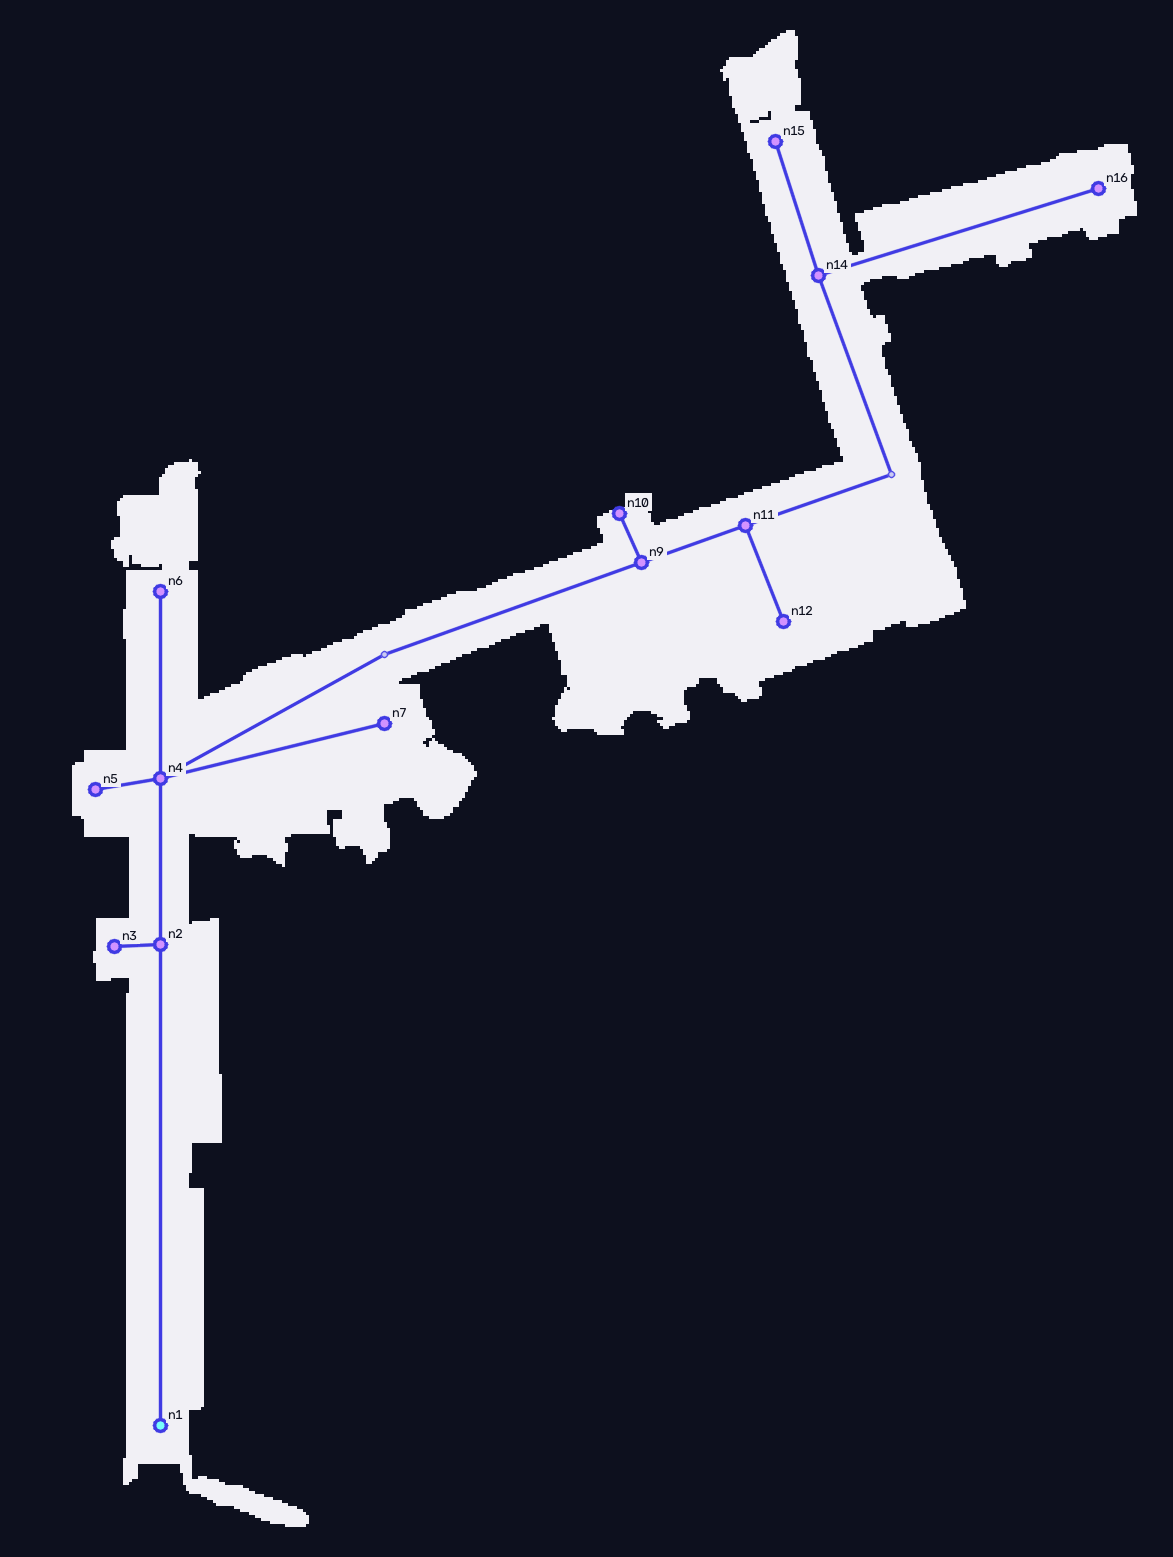
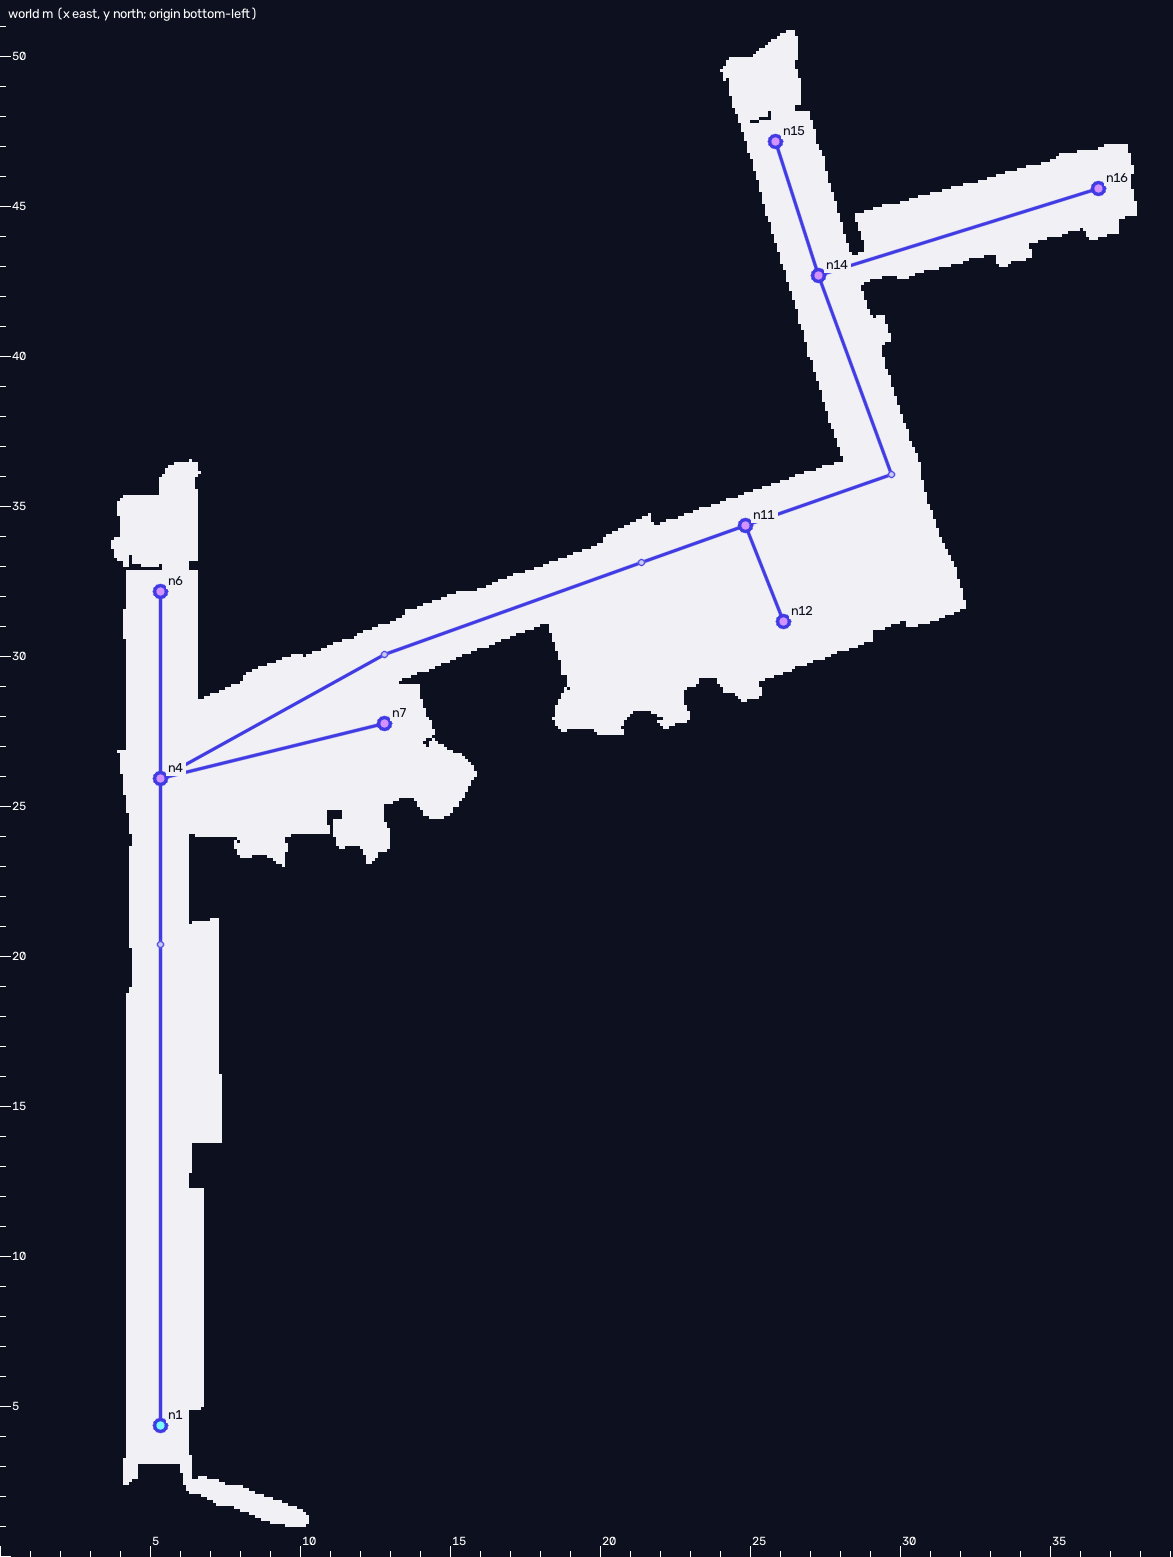
marshgate-route: close doors n3/n5/n10, debris on n6/n7/n15 branches
- tools/scan_close_doors.py: paint a branch's doorway shut in grid.png, seal
  what's behind it, drop the branch from the graph (ids kept).
- route editor keeps node/edge ids on save (--renumber for the old behaviour).
- n12 is open hall, not a door: no longer blocked.

diff --git a/tools/scan_close_doors.py b/tools/scan_close_doors.py
@@ -1,0 +1,159 @@
+#!/usr/bin/env python3
+# /// script
+# requires-python = ">=3.12"
+# dependencies = ["numpy", "opencv-python-headless", "scikit-image"]
+# ///
+"""Close doors: paint doorways shut in grid.png and drop those branches from the graph.
+
+    python tools/scan_close_doors.py maps/<name> n3 n5 n10 [--dry-run]
+
+Each argument is the node BEHIND the door (the room / alcove node at the end of a branch).
+For each one:
+  * the doorway = the narrowest wall-to-wall cross-section along that node's edge
+    (from its junction to the node, ignoring the first/last 5%);
+  * a wall line is painted across it in grid.png (--thickness px), extended a little past
+    the jambs so no diagonal gap is left;
+  * free space no longer reachable from the entrance becomes wall (same rule as scan_to_grid);
+  * the branch (the node, and anything only reachable through it) is removed from the graph,
+    together with its compromised entries and checkpoints. Other ids are kept unchanged.
+Refuses a door wider than --max-door (default 3.5 m): that's an open area, not a doorway.
+Writes grid.png, scenario.json, preview.png and route_preview.jpg (if topdown.jpg exists),
+and keeps a backup grid.before_doors.png the first time.
+"""
+from __future__ import annotations
+
+import argparse
+import json
+import shutil
+import sys
+from pathlib import Path
+
+import cv2
+import numpy as np
+
+
+def main() -> None:
+    ap = argparse.ArgumentParser(description=__doc__, formatter_class=argparse.RawDescriptionHelpFormatter)
+    ap.add_argument("map_dir", type=Path)
+    ap.add_argument("nodes", nargs="+", help="node ids behind the doors")
+    ap.add_argument("--thickness", type=int, default=2, help="wall thickness (px of grid.png)")
+    ap.add_argument("--max-door", type=float, default=3.5, help="refuse doorways wider than this (m)")
+    ap.add_argument("--dry-run", action="store_true")
+    a = ap.parse_args()
+
+    md = a.map_dir
+    sc = json.loads((md / "scenario.json").read_text())
+    grid = cv2.imread(str(md / "grid.png"), cv2.IMREAD_GRAYSCALE)
+    pitch = float(sc.get("grid", {}).get("resolution", 0.1))
+    h, w = grid.shape
+    nodes = {n["id"]: n for n in sc["graph"]["nodes"]}
+    edges = {e["id"]: e for e in sc["graph"]["edges"]}
+    ent = next(n["id"] for n in sc["graph"]["nodes"] if n["kind"] == "entrance")
+    pos = {i: np.array((n["x"], n["y"]), float) for i, n in nodes.items()}
+
+    def rc(p):
+        return h - 1 - int(p[1] / pitch), int(p[0] / pitch)
+
+    def free(p, g):
+        r, c = rc(p)
+        return 0 <= r < h and 0 <= c < w and g[r, c] > 127
+
+    def ray(p, d, g):
+        t = 0.0
+        while free(p + d * t, g) and t < 20:
+            t += pitch / 4
+        return t
+
+    def reach_nodes(edge_set, start):
+        adj = {i: [] for i in nodes}
+        for e in edge_set.values():
+            adj[e["a"]].append(e["b"]); adj[e["b"]].append(e["a"])
+        seen, st = set(), [start]
+        while st:
+            n = st.pop()
+            if n not in seen:
+                seen.add(n); st += adj[n]
+        return seen
+
+    g = grid.copy()
+    drop_nodes, drop_edges = set(), set()
+    for leaf in a.nodes:
+        if leaf not in nodes:
+            raise SystemExit(f"unknown node {leaf}")
+        if leaf == ent:
+            raise SystemExit(f"{leaf} is the entrance")
+        inc = [e for e in edges.values() if leaf in (e["a"], e["b"])]
+        # the door edge = the incident edge on the way to the entrance
+        others = {k: v for k, v in edges.items()}
+        door = None
+        for e in inc:
+            rest = {k: v for k, v in others.items() if k != e["id"]}
+            if leaf not in reach_nodes(rest, ent):      # removing e cuts the leaf side off
+                door = e
+                break
+        if door is None:
+            raise SystemExit(f"{leaf} is on a loop: there is no single door edge to close")
+        root = door["a"] if door["b"] == leaf else door["b"]
+        pa, pb = pos[root], pos[leaf]
+        u = (pb - pa) / np.linalg.norm(pb - pa)
+        nrm = np.array([-u[1], u[0]])
+        best = min((ray(pa + (pb - pa) * t, nrm, grid) + ray(pa + (pb - pa) * t, -nrm, grid), t)
+                   for t in np.linspace(0.05, 0.95, 37))
+        width, t = best
+        if width > a.max_door:
+            print(f"  SKIP {leaf}: narrowest opening on {door['id']} is {width:.1f} m wide, that's an open area, "
+                  f"not a door (use --max-door to force)")
+            continue
+        m = pa + (pb - pa) * t
+        q1 = m + nrm * (ray(m, nrm, grid) + 2 * pitch)
+        q2 = m - nrm * (ray(m, -nrm, grid) + 2 * pitch)
+        (r1, c1), (r2, c2) = rc(q1), rc(q2)
+        cv2.line(g, (c1, r1), (c2, r2), 0, a.thickness)
+        cut = reach_nodes({k: v for k, v in edges.items() if k != door["id"]}, ent)
+        gone = set(nodes) - cut
+        drop_nodes |= gone
+        drop_edges |= {k for k, e in edges.items() if e["a"] in gone or e["b"] in gone}
+        print(f"  door {leaf}: {width:.1f} m wide doorway on {door['id']}, {t * np.linalg.norm(pb - pa):.1f} m from "
+              f"{root} at ({m[0]:.2f}, {m[1]:.2f}); removes nodes {sorted(gone)}")
+
+    # seal: free cells no longer reachable from the entrance -> wall
+    free_m = (g > 127).astype(np.uint8)
+    _, lab = cv2.connectedComponents(free_m, connectivity=4)
+    er, ec = rc(np.array((sc["entrance"]["x"], sc["entrance"]["y"])))
+    sealed = (free_m == 1) & (lab != lab[er, ec])
+    g[sealed] = 0
+    print(f"  sealed {sealed.sum() * pitch * pitch:.1f} m2 of free space behind the doors")
+
+    keep_nodes = [n for n in sc["graph"]["nodes"] if n["id"] not in drop_nodes]
+    keep_edges = [e for e in sc["graph"]["edges"] if e["id"] not in drop_edges]
+    # check: every remaining node still on free space and reachable
+    bad = [n["id"] for n in keep_nodes if not free(pos[n["id"]], g)]
+    if bad:
+        raise SystemExit(f"refusing: nodes {bad} would end up on wall cells")
+    sc["graph"] = {"nodes": keep_nodes, "edges": keep_edges}
+    sc["compromised"] = [c for c in sc.get("compromised", []) if c["edge"] not in drop_edges]
+    sc["checkpoints"] = [c for c in sc.get("checkpoints", []) if c.get("node") not in drop_nodes]
+    if a.dry_run:
+        print("dry run: nothing written")
+        return
+    backup = md / "grid.before_doors.png"
+    if not backup.exists():
+        shutil.copy(md / "grid.png", backup)
+    cv2.imwrite(str(md / "grid.png"), g)
+    (md / "scenario.json").write_text(json.dumps(sc, indent=2) + "\n")
+    sys.path.insert(0, str(Path(__file__).resolve().parent))
+    from propose_graph import draw_preview
+    draw_preview(md / "preview.png", g, sc["graph"], pitch)
+    if (md / "topdown.json").exists():
+        try:
+            import scan_route_draw as E
+            app = E.App(md, fresh=False, size=(800, 600))
+            cv2.imwrite(str(md / "route_preview.jpg"), app.render_full(), [cv2.IMWRITE_JPEG_QUALITY, 88])
+        except Exception as e:  # GUI-less is fine; render_full doesn't open a window
+            print(f"  (route_preview.jpg not refreshed: {e})")
+    print(f"wrote {md / 'grid.png'} (backup {backup.name}), scenario.json, preview.png, route_preview.jpg: "
+          f"{len(keep_nodes)} nodes, {len(keep_edges)} edges, {len(sc['compromised'])} debris")
+
+
+if __name__ == "__main__":
+    main()

diff --git a/tools/scan_route_draw.py b/tools/scan_route_draw.py
@@ -70,6 +70,7 @@ class Route:
         self.checkpoints: list[dict] = []          # {"node", "drone"}
         self.history: list = []
         self.dirty = False
+        self.keep_ids = True        # --renumber turns this off
 
     # ---- persistence -------------------------------------------------------
     def load(self, sc: dict) -> None:
@@ -222,8 +223,14 @@ class Route:
         return (best[0], best[2]) if best else (None, None)
 
     # ---- output ------------------------------------------------------------
-    def renumbered(self):
-        """Ids n1.. in BFS order from the entrance (n1 = entrance), e1.. likewise."""
+    def renumbered(self, keep: bool = False):
+        """Ids n1.. in BFS order from the entrance (n1 = entrance), e1.. likewise.
+        keep=True: keep the existing ids (other people refer to them), order by number."""
+        if keep:
+            num = lambda i: int(i[1:]) if i[1:].isdigit() else 10 ** 9
+            order = sorted(self.nodes, key=num)
+            eorder = sorted(self.edges, key=num)
+            return {n: n for n in order}, {e: e for e in eorder}, order, eorder
         ent = self.entrance() or next(iter(self.nodes), None)
         adj = {n: [] for n in self.nodes}
         for d in self.edges.values():
@@ -251,7 +258,10 @@ class Route:
         if self.entrance() is None:
             warn.append("no entrance node: making the first node the entrance")
             self.nodes[next(iter(self.nodes))]["kind"] = "entrance"
-        nmap, emap, order, eorder = self.renumbered()
+        nmap, emap, order, eorder = self.renumbered(keep=self.keep_ids)
+        ent0 = self.entrance()
+        if self.keep_ids and ent0 and order[0] != ent0:
+            order.remove(ent0); order.insert(0, ent0)
         nodes = [{"id": nmap[n], "x": self.nodes[n]["x"], "y": self.nodes[n]["y"], "kind": self.nodes[n]["kind"]}
                  for n in order]
         edges = []
@@ -339,7 +349,7 @@ class View:
 class App:
     PICK_PX = 12
 
-    def __init__(self, map_dir: Path, fresh: bool, size):
+    def __init__(self, map_dir: Path, fresh: bool, size, renumber: bool = False):
         self.map_dir = map_dir
         meta = json.loads((map_dir / "topdown.json").read_text())
         bg = cv2.imread(str(map_dir / meta["image"]))
@@ -349,6 +359,7 @@ class App:
         pitch = float(self.sc.get("grid", {}).get("resolution", 0.1))
         grid = cv2.imread(str(map_dir / "grid.png"), cv2.IMREAD_GRAYSCALE)
         self.route = Route(grid, pitch)
+        self.route.keep_ids = not renumber
         if not fresh:
             self.route.load(self.sc)
         self.view = View(bg, meta["res"], size)
@@ -509,7 +520,7 @@ class App:
                 cv2.line(img, (p[0] - s, p[1] + s), (p[0] + s, p[1] - s), RED, 4, cv2.LINE_AA)
         if self.mode == "route" and self.head in R.nodes:
             cv2.line(img, V.w2s(*R.xy(self.head)), self.mouse, VIOLET, 1, cv2.LINE_AA)
-        nmap = R.renumbered()[0] if R.nodes else {}
+        nmap = R.renumbered(keep=R.keep_ids)[0] if R.nodes else {}
         for i, n in R.nodes.items():
             p = V.w2s(n["x"], n["y"])
             r = 7 if n["kind"] != "entrance" else 10
@@ -626,9 +637,11 @@ def main() -> None:
     ap = argparse.ArgumentParser(description=__doc__, formatter_class=argparse.RawDescriptionHelpFormatter)
     ap.add_argument("map_dir", type=Path)
     ap.add_argument("--fresh", action="store_true", help="start from an empty graph")
+    ap.add_argument("--renumber", action="store_true",
+                    help="renumber ids n1.. in BFS order from the entrance on save (default: keep ids)")
     ap.add_argument("--size", type=int, nargs=2, default=(1400, 900), metavar=("W", "H"), help="window size")
     a = ap.parse_args()
-    App(a.map_dir, a.fresh, tuple(a.size)).run()
+    App(a.map_dir, a.fresh, tuple(a.size), a.renumber).run()
 
 
 if __name__ == "__main__":
